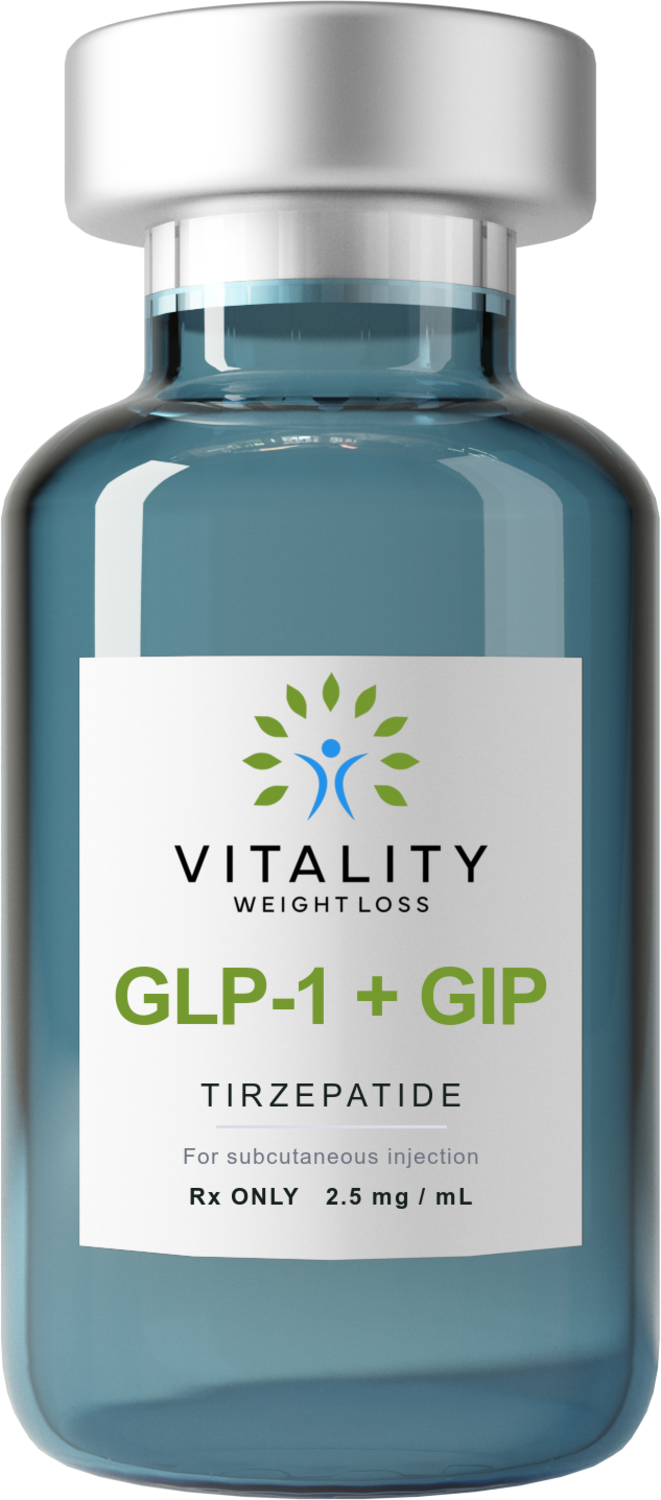
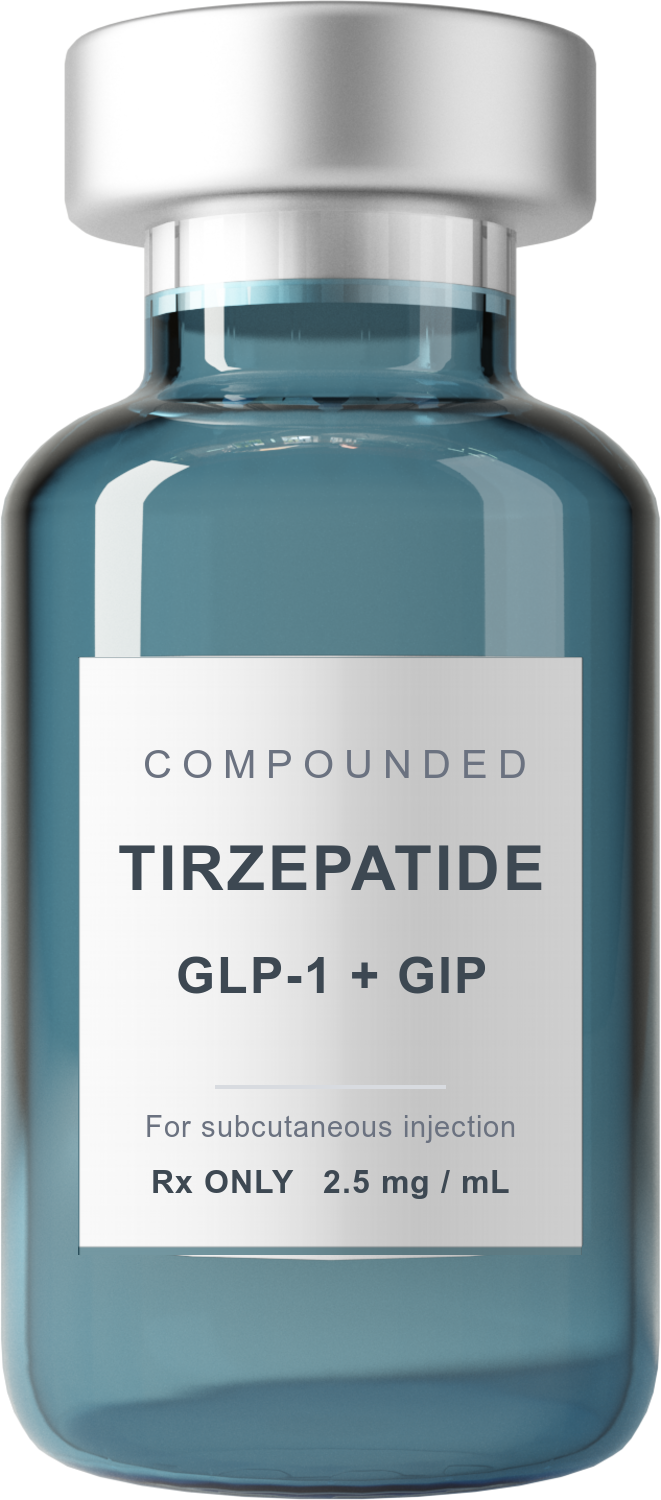
LegitScript: de-brand compounded vial labels
Per LegitScript's requirement (Fred, 8/10): no company logo or branding
on either compounded vial, so patients don't mistake us for the
manufacturer/dispenser. Labels now read Compounded Semaglutide GLP-1
and Compounded Tirzepatide GLP-1 + GIP in a neutral pharma layout.
Same renders, label content surgically replaced. Originals in git
history. Cache-busters bumped to v=3; alt text de-branded to match.

Changed region(s): [[0.1513, 0.4293, 0.8472, 0.8587], [0.7564, 0.4907, 0.7867, 0.5213]]

diff --git a/index.html b/index.html
@@ -343,13 +343,13 @@
     <!-- the vials: bottle 1 grows with scroll; bottle 2 (tirzepatide) reveals, then the pair slides left; ground shadows fade in once they settle -->
     <div class="absolute inset-0 z-10 flex items-center justify-center pointer-events-none">
       <div id="medGroup1" class="relative will-change-transform" style="height:40vh;transform:scale(0.5)">
-        <img id="medVial1" src="assets/glp1-vial-hero.png?v=2" alt="Vitality GLP-1 semaglutide vial" class="block h-full w-auto">
+        <img id="medVial1" src="assets/glp1-vial-hero.png?v=3" alt="Compounded semaglutide GLP-1 vial" class="block h-full w-auto">
         <div id="medShadow1" class="absolute left-1/2 -translate-x-1/2 rounded-[50%]" style="bottom:-2.5%;width:64%;height:5%;background:radial-gradient(50% 50% at 50% 50%, rgba(16,24,40,.34), rgba(16,24,40,0) 70%);opacity:0"></div>
       </div>
     </div>
     <div class="absolute inset-0 z-10 flex items-center justify-center pointer-events-none">
       <div id="medGroup2" class="relative will-change-transform" style="height:40vh;transform:scale(0.5);opacity:0">
-        <img id="medVial2" src="assets/glp1-vial-hero-2.png?v=2" alt="Vitality GLP-1 + GIP tirzepatide vial" class="block h-full w-auto">
+        <img id="medVial2" src="assets/glp1-vial-hero-2.png?v=3" alt="Compounded tirzepatide GLP-1 + GIP vial" class="block h-full w-auto">
         <div id="medShadow2" class="absolute left-1/2 -translate-x-1/2 rounded-[50%]" style="bottom:-2.5%;width:64%;height:5%;background:radial-gradient(50% 50% at 50% 50%, rgba(16,24,40,.34), rgba(16,24,40,0) 70%);opacity:0"></div>
       </div>
     </div>
@@ -923,7 +923,7 @@
         <!-- 3 Cost -->
         <div class="faq-panel" data-panel="3">
           <div class="rounded-3xl border border-[#e6e9ee] bg-[#f7f8fa] p-8 flex flex-col md:flex-row items-center gap-7">
-            <img src="assets/glp1-vial-hero.png?v=2" alt="Vitality semaglutide vial" class="h-60 md:h-72 w-auto shrink-0 select-none pointer-events-none">
+            <img src="assets/glp1-vial-hero.png?v=3" alt="Compounded semaglutide GLP-1 vial" class="h-60 md:h-72 w-auto shrink-0 select-none pointer-events-none">
             <div>
               <div class="text-[11px] font-semibold tracking-[.14em] uppercase text-[#0a6cf5] mb-2">Transparent pricing</div>
               <h3 class="font-display text-2xl md:text-3xl font-semibold tracking-[-.5px] mb-3">Semaglutide, no surprise pricing.</h3>

diff --git a/invest.html b/invest.html
@@ -179,7 +179,7 @@
         </ul>
       </div>
       <div class="r d3" style="display:flex;flex-direction:column;align-items:center;justify-content:center">
-        <img src="assets/glp1-vial-hero.png?v=2" alt="Vitality GLP-1 semaglutide vial" style="max-width:100%;max-height:70vh;object-fit:contain;filter:drop-shadow(0 40px 70px rgba(0,0,0,.5))">
+        <img src="assets/glp1-vial-hero.png?v=3" alt="Compounded semaglutide GLP-1 vial" style="max-width:100%;max-height:70vh;object-fit:contain;filter:drop-shadow(0 40px 70px rgba(0,0,0,.5))">
         <div style="opacity:.7;font-size:13px;letter-spacing:.04em;margin-top:10px;text-align:center">U.S. weight-loss market · 2025 record · recession-resistant</div>
       </div>
     </div>
@@ -353,7 +353,7 @@
         </div>
       </div>
       <div class="r d3" style="display:flex;align-items:center;justify-content:center">
-        <img src="assets/glp1-vial-hero-2.png?v=2" alt="Vitality GLP-1 + GIP tirzepatide vial" style="max-width:100%;max-height:82vh;object-fit:contain;filter:drop-shadow(0 44px 72px rgba(0,0,0,.5))">
+        <img src="assets/glp1-vial-hero-2.png?v=3" alt="Compounded tirzepatide GLP-1 + GIP vial" style="max-width:100%;max-height:82vh;object-fit:contain;filter:drop-shadow(0 44px 72px rgba(0,0,0,.5))">
       </div>
     </div>
   </section>
